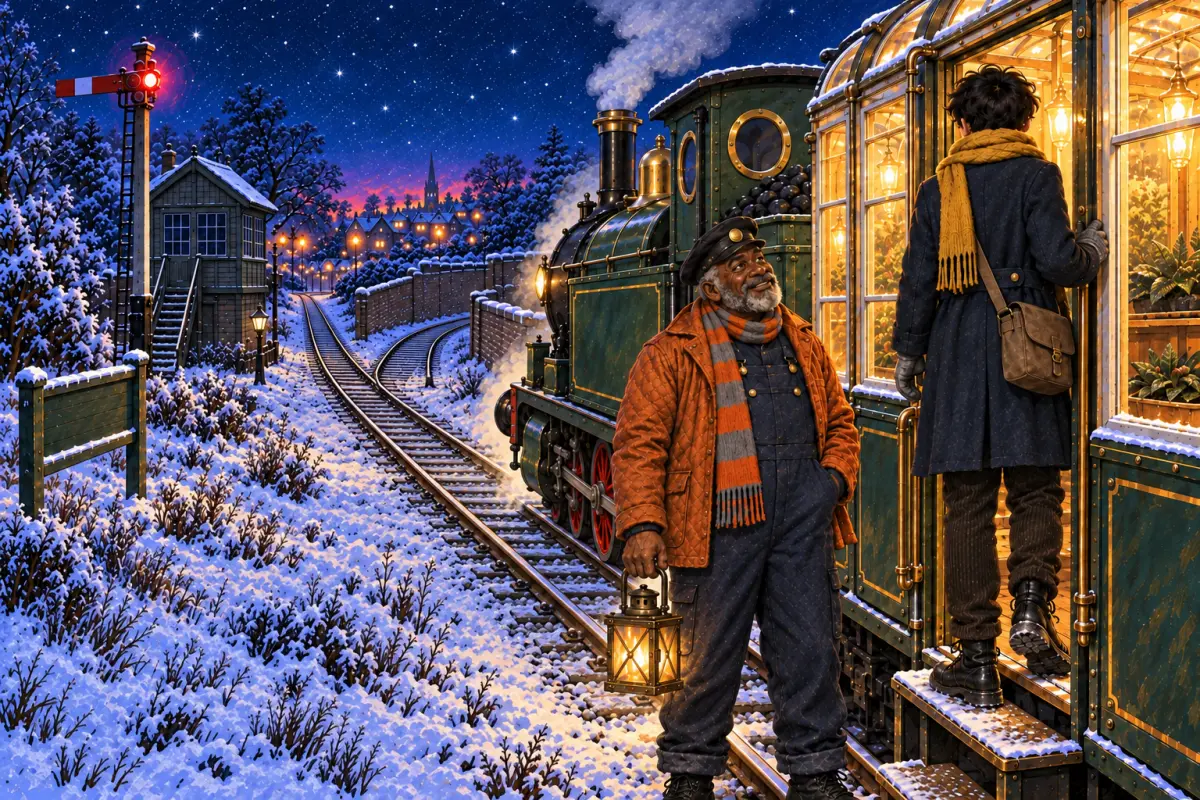
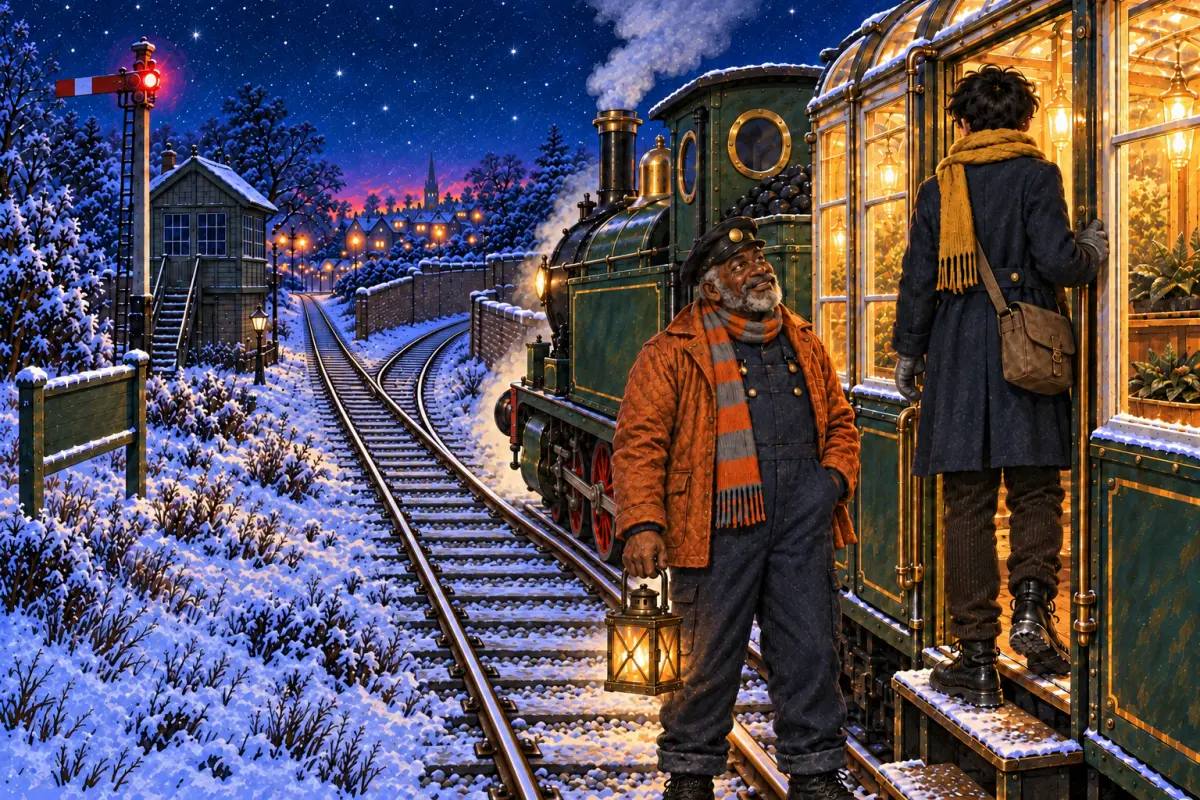
art(glasshouse-express): connect B01 siding rail

diff --git a/docs/glasshouse-express/art-scene-town-astra.md b/docs/glasshouse-express/art-scene-town-astra.md
@@ -719,3 +719,81 @@ Wide street view with EXACTLY four coupled vehicles in order: squat tank engine 
 Any plants visible through glowing car must be LOW broad dark-green rosettes and closed copper buds. Show clear separate vehicle couplings and exactly two unlit empty cars behind glowing car. Player rear silhouette in end window only, not hanging outside. Use street-level wide view.
 LOCAL CORRECTION only plants within glowing carriage: remove ALL tall stems and single tulip-like upright buds. Use squat broad dark-green rosettes in shallow trays, with clusters of tiny tight copper buds nestled at rosette centers, no stalks and no open flowers. Keep player, all four vehicles, couplings, bicycle child, neon, street and lighting exactly unchanged.
 ```
+
+## B01
+
+Owner rejected prior selected B01 for dangling siding rail. Two further built-in edits made: first introduced crossing and was rejected; second targeted original candidate's local rail connection. Both used all mapped packs and SAME prior selected target (exec-f7f49da3), not each other. Latest selected PNG and final WebP inspected; rail now joins. Pending owner reinspection; supersedes prior B01 final hash.
+
+Original 1536×1024; selected PNG unchanged; final WebP 1200×800, cwebp -q 75.
+
[3 lines of base64/hex data omitted]
+
+Attached full-resolution packs:
[3 lines of base64/hex data omitted]
+
+Complete generation prompt:
+
+```text
+The attached sheets lock identity, shape, colour, clothing and scale only. Draw ONLY the scene below, not a lineup. Do not add other subjects or equipment from a reference. Match this scene’s possession, costume variant, time, location and object state. Shared-path illustrations must be valid on every arrival route; never interpret an optional companion as required.
+Painterly 1980s fantasy-adventure illustration, gouache and ink line, luminous frost blues and warm glasshouse amber, expressive invented faces, cinematic light, 3:2 landscape. Family-friendly, gently comic. Only the listed characters appear; Hesper appears only at the Terminus, Cassia only inside her studio, Sallow only at the Ember Works, Fenn only at the Conservatory; radio voices and telephone voices are never drawn. No real people's likenesses, no famous trains or film props, no logos, no legible text or captions (signs and plates are blank or unreadable). Every scene states location, weather and time: the night is clear with hard frost and stars, wind only on the Mere viaduct, tunnel interiors enclosed and weatherless, dawn scenes clear and golden. Use 'alone (X is not here)' when specified. Keep every character's clothing word-for-word identical to the cast description; scene prompts never substitute outfits. The player's face is always hidden. Action is machinery, weather and plants, never injury; falling glass lands where nobody stands. Optional companions, props and the empty dark carriages are absent unless explicitly listed for that scene.
+
+THE PLAYER: an unnamed, gender-neutral teenager, always seen from behind or over the shoulder with the face hidden, in a navy wool railway greatcoat with brass buttons, a mustard knitted scarf, grey woollen gloves, dark corduroy trousers and black lace-up boots, with a brown canvas keeper's satchel worn across the body on a strap from the LEFT shoulder to the RIGHT hip, closed by a single brass flap buckle. Short dark hair under no hat. The brass thaw-lamp is carried only when listed.
+
+DOV PELLINGER: an original big man in his fifties, dark brown skin, close-cropped grey beard, a black railway cap with a small round brass badge, a quilted rust-orange oilskin jacket over navy bib overalls, a scarf of alternating orange and grey stripes with an orange fringe, heavy black boots. Carries a square X-braced brass hand lantern when outdoors. Calm, slow-moving, kind.
+
+MARIGOLD: a small squat dark-green tank locomotive with NO tender and an integral rear coal bunker, three driving axles (six red-rimmed wheels), a tall chimney capped in brass, a round brass headlamp on the smokebox front, a red buffer beam with a pair of round buffers, black smokebox, polished brass dome and a short cab with round brass-trimmed windows. Always the same engine; no famous or named real locomotive.
+
+Clear frosty night, twenty past midnight, at Candlewick Junction where the lakeside line meets the Lower Town: a red signal lamp on a tall post, a dark unlit signal box, a set of facing points where a siding diverges to the right into a walled cutting, a freshly painted wooden sign on a post (no legible text). Marigold stands stopped with steam drifting; Dov Pellinger in his rust oilskin jacket and railway cap stands at the open door of the Glasshouse Carriage talking up to the player, who is seen from behind in the doorway. Only these two people. Pink neon glow from the town beyond. Framing cuts off just behind the glowing Glasshouse Carriage; the two empty carriages coupled behind it are out of frame.
+
+Use case: illustration-story. Output one finished 1536x1024 edge-to-edge landscape story scene. No panels, sheet layouts, captions or extraneous subjects. All attached boards establish identity/design only. Carriage ridge vents must remain completely CLOSED and FLUSH unless the scene explicitly says otherwise. Preserve exact reference wardrobe and left-shoulder/right-hip satchel. Attachment 1: upper full board player-hesper; lower full board dov. Attachment 2: upper full board marigold; lower full board glasshouse-carriage. Attachment 3: whole full board candlewick-junction
+Two people only. Side view of Dov looking up to rear-facing player in open carriage door. Dov exact dark skin, grey beard, orange-grey striped scarf and quilted rust oilskin. Locomotive ahead left, glowing carriage cropped at right edge before any trailing cars. Track ahead forks right toward walled cutting; red signal and dark signalbox, blank sign. No raised vents.
+TINY LOCAL INPAINT ONLY, preserve all pixels except region x480–670,y460–620 in this 1536x1024 target. At (550,495), right siding rail ends abruptly in snow. Extend THAT rail a short distance diagonally DOWN-RIGHT to meet existing main rail at approximately (615,575). It must join tangentially with a smooth short curve and a switch blade. Do not add any rail or track elsewhere. Existing single track under engine remains exactly unchanged. Do not add extra foreground track or X crossing. Preserve all people/train/crop/lighting/architecture.
+```
+
+Generation/correction history:
+
[1 lines of base64/hex data omitted]
+
+Complete correction prompt (same mapped packs plus exec-f7f49da3 target):
+
+```text
+The attached sheets lock identity, shape, colour, clothing and scale only. Draw ONLY the scene below, not a lineup. Do not add other subjects or equipment from a reference. Match this scene’s possession, costume variant, time, location and object state. Shared-path illustrations must be valid on every arrival route; never interpret an optional companion as required.
+Painterly 1980s fantasy-adventure illustration, gouache and ink line, luminous frost blues and warm glasshouse amber, expressive invented faces, cinematic light, 3:2 landscape. Family-friendly, gently comic. Only the listed characters appear; Hesper appears only at the Terminus, Cassia only inside her studio, Sallow only at the Ember Works, Fenn only at the Conservatory; radio voices and telephone voices are never drawn. No real people's likenesses, no famous trains or film props, no logos, no legible text or captions (signs and plates are blank or unreadable). Every scene states location, weather and time: the night is clear with hard frost and stars, wind only on the Mere viaduct, tunnel interiors enclosed and weatherless, dawn scenes clear and golden. Use 'alone (X is not here)' when specified. Keep every character's clothing word-for-word identical to the cast description; scene prompts never substitute outfits. The player's face is always hidden. Action is machinery, weather and plants, never injury; falling glass lands where nobody stands. Optional companions, props and the empty dark carriages are absent unless explicitly listed for that scene.
+
+THE PLAYER: an unnamed, gender-neutral teenager, always seen from behind or over the shoulder with the face hidden, in a navy wool railway greatcoat with brass buttons, a mustard knitted scarf, grey woollen gloves, dark corduroy trousers and black lace-up boots, with a brown canvas keeper's satchel worn across the body on a strap from the LEFT shoulder to the RIGHT hip, closed by a single brass flap buckle. Short dark hair under no hat. The brass thaw-lamp is carried only when listed.
+
+DOV PELLINGER: an original big man in his fifties, dark brown skin, close-cropped grey beard, a black railway cap with a small round brass badge, a quilted rust-orange oilskin jacket over navy bib overalls, a scarf of alternating orange and grey stripes with an orange fringe, heavy black boots. Carries a square X-braced brass hand lantern when outdoors. Calm, slow-moving, kind.
+
+MARIGOLD: a small squat dark-green tank locomotive with NO tender and an integral rear coal bunker, three driving axles (six red-rimmed wheels), a tall chimney capped in brass, a round brass headlamp on the smokebox front, a red buffer beam with a pair of round buffers, black smokebox, polished brass dome and a short cab with round brass-trimmed windows. Always the same engine; no famous or named real locomotive.
+
+Clear frosty night, twenty past midnight, at Candlewick Junction where the lakeside line meets the Lower Town: a red signal lamp on a tall post, a dark unlit signal box, a set of facing points where a siding diverges to the right into a walled cutting, a freshly painted wooden sign on a post (no legible text). Marigold stands stopped with steam drifting; Dov Pellinger in his rust oilskin jacket and railway cap stands at the open door of the Glasshouse Carriage talking up to the player, who is seen from behind in the doorway. Only these two people. Pink neon glow from the town beyond. Framing cuts off just behind the glowing Glasshouse Carriage; the two empty carriages coupled behind it are out of frame.
+
+Use case: illustration-story. Output one finished 1536x1024 edge-to-edge landscape story scene. No panels, sheet layouts, captions or extraneous subjects. All attached boards establish identity/design only. Carriage ridge vents must remain completely CLOSED and FLUSH unless the scene explicitly says otherwise. Preserve exact reference wardrobe and left-shoulder/right-hip satchel. Attachment 1: upper full board player-hesper; lower full board dov. Attachment 2: upper full board marigold; lower full board glasshouse-carriage. Attachment 3: whole full board candlewick-junction
+Two people only. Side view of Dov looking up to rear-facing player in open carriage door. Dov exact dark skin, grey beard, orange-grey striped scarf and quilted rust oilskin. Locomotive ahead left, glowing carriage cropped at right edge before any trailing cars. Track ahead forks right toward walled cutting; red signal and dark signalbox, blank sign. No raised vents.
+OWNER-REQUIRED PRECISION TRACK CORRECTION to attached latest target, preserve all people, train, crop, lighting, architecture and plants. At native 1536x1024 coordinate approximately x550,y495 the RIGHTMOST rail of the right-hand siding abruptly ends in snow. Extend this rail smoothly down-left into the facing turnout, joining the appropriate main running rail with a physically continuous switch/point assembly. Both rails of the right siding must connect all the way into the main track. No detached blunt rail ends in snow, no imaginary gaps, no extra tracks. Keep the existing direction of fork: engine approaches turnout; straight route town, right branch walled cutting. Change only the faulty turnout rail connection and immediately surrounding sleepers/ballast.
+```
+
[1 lines of base64/hex data omitted]
+
+Complete correction prompt (same mapped packs plus exec-f7f49da3 target):
+
+```text
+The attached sheets lock identity, shape, colour, clothing and scale only. Draw ONLY the scene below, not a lineup. Do not add other subjects or equipment from a reference. Match this scene’s possession, costume variant, time, location and object state. Shared-path illustrations must be valid on every arrival route; never interpret an optional companion as required.
+Painterly 1980s fantasy-adventure illustration, gouache and ink line, luminous frost blues and warm glasshouse amber, expressive invented faces, cinematic light, 3:2 landscape. Family-friendly, gently comic. Only the listed characters appear; Hesper appears only at the Terminus, Cassia only inside her studio, Sallow only at the Ember Works, Fenn only at the Conservatory; radio voices and telephone voices are never drawn. No real people's likenesses, no famous trains or film props, no logos, no legible text or captions (signs and plates are blank or unreadable). Every scene states location, weather and time: the night is clear with hard frost and stars, wind only on the Mere viaduct, tunnel interiors enclosed and weatherless, dawn scenes clear and golden. Use 'alone (X is not here)' when specified. Keep every character's clothing word-for-word identical to the cast description; scene prompts never substitute outfits. The player's face is always hidden. Action is machinery, weather and plants, never injury; falling glass lands where nobody stands. Optional companions, props and the empty dark carriages are absent unless explicitly listed for that scene.
+
+THE PLAYER: an unnamed, gender-neutral teenager, always seen from behind or over the shoulder with the face hidden, in a navy wool railway greatcoat with brass buttons, a mustard knitted scarf, grey woollen gloves, dark corduroy trousers and black lace-up boots, with a brown canvas keeper's satchel worn across the body on a strap from the LEFT shoulder to the RIGHT hip, closed by a single brass flap buckle. Short dark hair under no hat. The brass thaw-lamp is carried only when listed.
+
+DOV PELLINGER: an original big man in his fifties, dark brown skin, close-cropped grey beard, a black railway cap with a small round brass badge, a quilted rust-orange oilskin jacket over navy bib overalls, a scarf of alternating orange and grey stripes with an orange fringe, heavy black boots. Carries a square X-braced brass hand lantern when outdoors. Calm, slow-moving, kind.
+
+MARIGOLD: a small squat dark-green tank locomotive with NO tender and an integral rear coal bunker, three driving axles (six red-rimmed wheels), a tall chimney capped in brass, a round brass headlamp on the smokebox front, a red buffer beam with a pair of round buffers, black smokebox, polished brass dome and a short cab with round brass-trimmed windows. Always the same engine; no famous or named real locomotive.
+
+Clear frosty night, twenty past midnight, at Candlewick Junction where the lakeside line meets the Lower Town: a red signal lamp on a tall post, a dark unlit signal box, a set of facing points where a siding diverges to the right into a walled cutting, a freshly painted wooden sign on a post (no legible text). Marigold stands stopped with steam drifting; Dov Pellinger in his rust oilskin jacket and railway cap stands at the open door of the Glasshouse Carriage talking up to the player, who is seen from behind in the doorway. Only these two people. Pink neon glow from the town beyond. Framing cuts off just behind the glowing Glasshouse Carriage; the two empty carriages coupled behind it are out of frame.
+
+Use case: illustration-story. Output one finished 1536x1024 edge-to-edge landscape story scene. No panels, sheet layouts, captions or extraneous subjects. All attached boards establish identity/design only. Carriage ridge vents must remain completely CLOSED and FLUSH unless the scene explicitly says otherwise. Preserve exact reference wardrobe and left-shoulder/right-hip satchel. Attachment 1: upper full board player-hesper; lower full board dov. Attachment 2: upper full board marigold; lower full board glasshouse-carriage. Attachment 3: whole full board candlewick-junction
+Two people only. Side view of Dov looking up to rear-facing player in open carriage door. Dov exact dark skin, grey beard, orange-grey striped scarf and quilted rust oilskin. Locomotive ahead left, glowing carriage cropped at right edge before any trailing cars. Track ahead forks right toward walled cutting; red signal and dark signalbox, blank sign. No raised vents.
+TINY LOCAL INPAINT ONLY, preserve all pixels except region x480–670,y460–620 in this 1536x1024 target. At (550,495), right siding rail ends abruptly in snow. Extend THAT rail a short distance diagonally DOWN-RIGHT to meet existing main rail at approximately (615,575). It must join tangentially with a smooth short curve and a switch blade. Do not add any rail or track elsewhere. Existing single track under engine remains exactly unchanged. Do not add extra foreground track or X crossing. Preserve all people/train/crop/lighting/architecture.
+```
